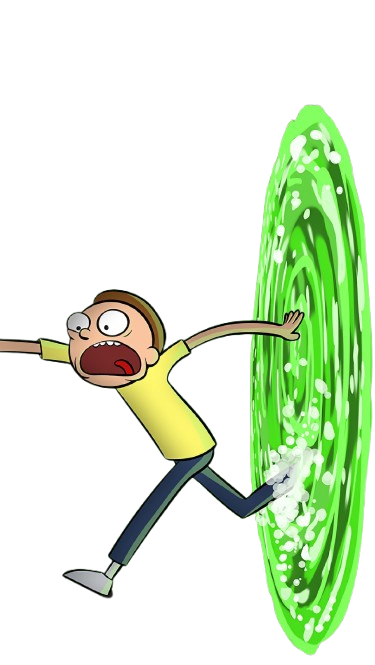
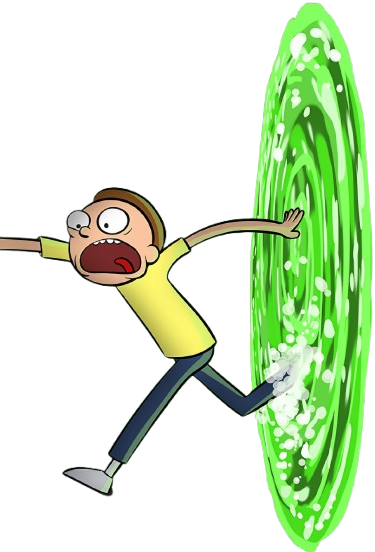
Arreglar style

diff --git a/styles/styles.css b/styles/styles.css
@@ -61,6 +61,7 @@ body::before {
 }
 
 .logo-container {
+    margin-top: 100px;
     display: inline-block;
     filter: drop-shadow(0 0 25px rgba(0, 255, 127, 0.8));
     width: 100%;
@@ -73,6 +74,7 @@ body::before {
     height: auto;
     max-width: none;
     object-fit: contain;
+    margin-top: -80px;
     animation: logoGlow 3s ease-in-out infinite alternate;
     transition: transform 0.3s ease;
 }
@@ -90,18 +92,17 @@ body::before {
     }
 }
 
-/* Main container */
 .main {
-    max-width: 1200px;
-    margin: 2rem auto;
+    max-width: 1580px;
+    margin: 5rem auto;
     padding: 2rem;
     position: relative;
     z-index: 10;
-    background: rgba(0, 0, 0, 0.4);
+    background: rgba(255, 255, 255, 0.596);
     border-radius: 20px;
-    backdrop-filter: blur(15px);
-    border: 1px solid rgba(0, 255, 127, 0.3);
-    box-shadow: 0 8px 32px rgba(0, 0, 0, 0.5);
+    backdrop-filter: blur(1px);
+    border: 1px solid rgba(238, 240, 239, 0.993);
+    /*box-shadow: 0 8px 32px rgb(221, 221, 221);*/
 }
 
 /* Filtros */
@@ -148,7 +149,7 @@ body::before {
 /* Grid de personajes */
 .characters-grid {
     display: grid;
-    grid-template-columns: repeat(auto-fit, minmax(280px, 1fr));
+    grid-template-columns: repeat(4, 1fr);
     gap: 2rem;
     margin-bottom: 3rem;
 }
@@ -290,18 +291,19 @@ body::before {
 }
 
 /* Portal y Morty decorativo */
-.portal-morty {
+/*.portal-morty {
     position: fixed;
     right: -100px;
     top: 50%;
     transform: translateY(-50%);
     z-index: 1;
     pointer-events: none;
-}
+}*/
 
 .portal-morty__portal {
     position: absolute;
-    top: 0;
+    z-index: -2;
+    top: 77.5%;
     left: 0;
     width: 300px;
     height: 300px;
@@ -310,9 +312,11 @@ body::before {
 }
 
 .portal-morty__image {
-    position: relative;
-    z-index: 2;
-    width: 200px;
+    position: absolute;
+    z-index: -2;
+    top: 0%;
+    left: 81.5%;
+    width: 300px;
     height: auto;
     animation: mortyFloat 3s ease-in-out infinite alternate;
 }

diff --git a/index.html b/index.html
@@ -1,5 +1,6 @@
 <!DOCTYPE html>
 <html lang="es">
+
 <head>
     <meta charset="UTF-8">
     <meta name="viewport" content="width=device-width, initial-scale=1.0">
@@ -9,17 +10,19 @@
     <link rel="preconnect" href="https://fonts.gstatic.com" crossorigin>
     <link href="https://fonts.googleapis.com/css2?family=Orbitron:wght@400;700;900&display=swap" rel="stylesheet">
 </head>
+
 <body>
     <div class="background-portal"></div>
     <div class="background-pattern"></div>
-    
+
     <main class="main">
         <header class="header">
             <div class="logo-container">
-                <img src="./resources/img/Rick-and-Morty-Horror-Font-1-removebg-preview.png" alt="Rick and Morty Logo" class="logo">
+                <img src="./resources/img/Rick-and-Morty-Horror-Font-1-removebg-preview.png" alt="Rick and Morty Logo"
+                    class="logo">
             </div>
         </header>
-        
+
         <section class="filters">
             <div class="filter-container">
                 <input type="text" placeholder="Buscar por nombre" class="filter-input" id="nameFilter">
@@ -51,14 +54,15 @@
             <button class="pagination__button pagination__button--prev">← Anterior</button>
             <button class="pagination__button pagination__button--next">Siguiente →</button>
         </section>
-    </main>
-
-    <div class="portal-morty">
         <img src="./resources/img/morty saliendo del portal.png" alt="Morty Portal" class="portal-morty__image">
         <img src="./resources/img/portal sin fondo.png" alt="Portal" class="portal-morty__portal">
-    </div>
+
+    </main>
+
+
 
     <script src="./js/script.js"></script>
 
 </body>
+
 </html>
